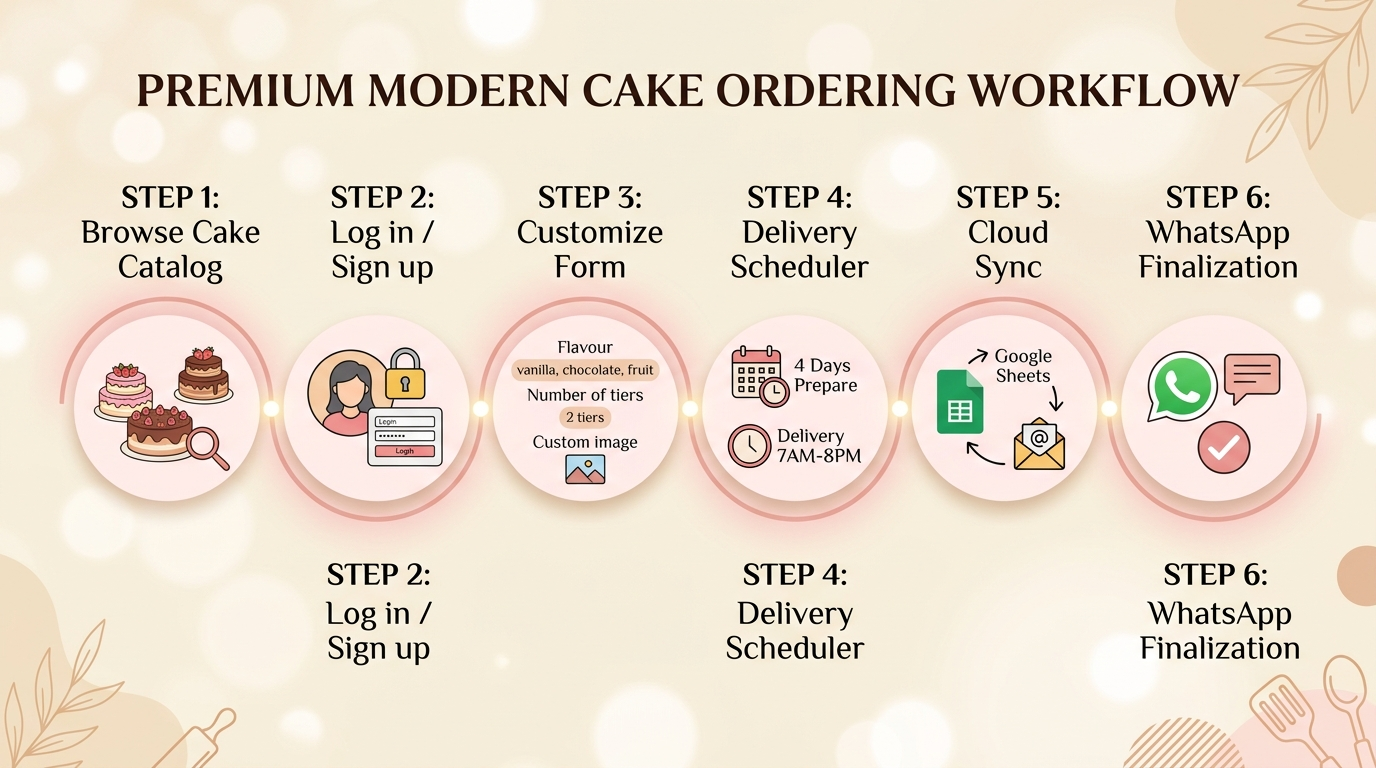
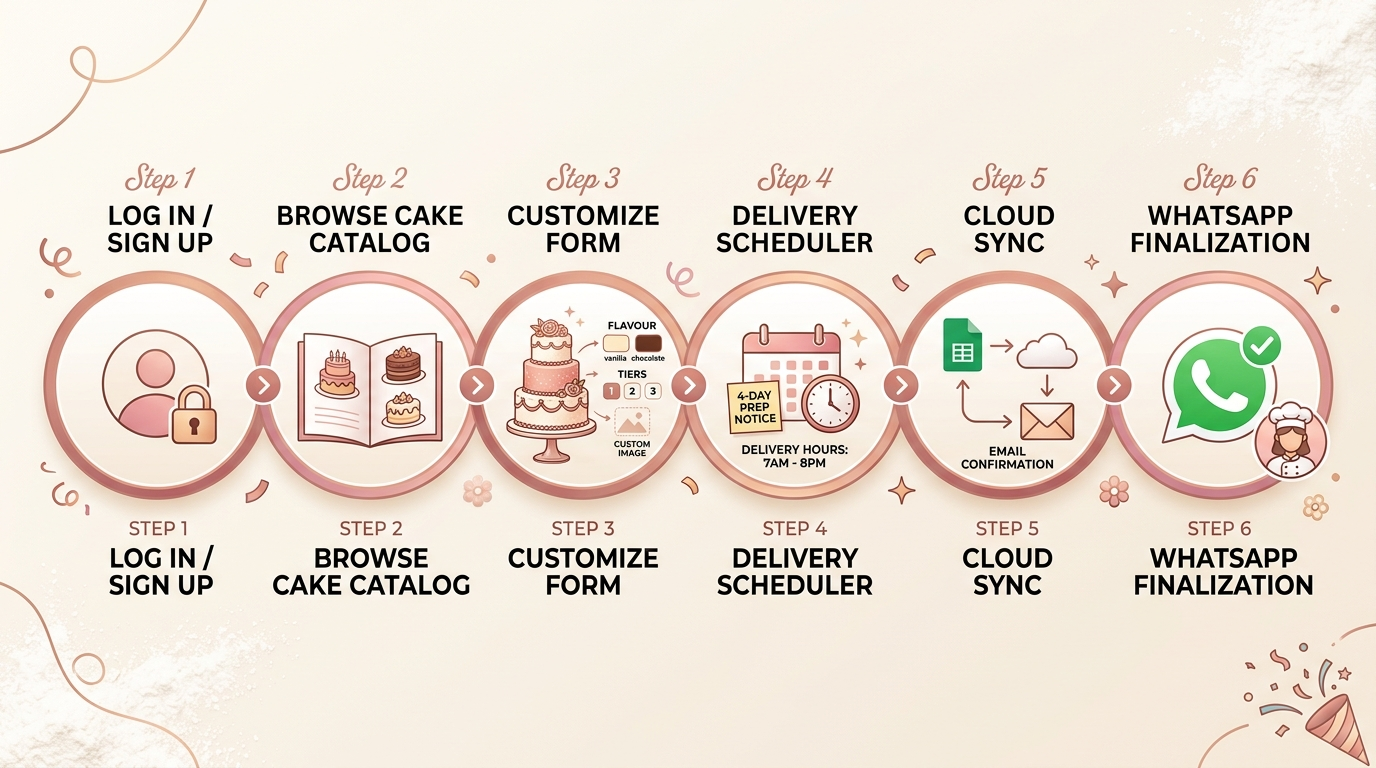
Update workflow infographic and step list to show login-first flow in README

diff --git a/README.md b/README.md
@@ -96,10 +96,10 @@ flowchart TD
 
 Here is a simple, step-by-step walkthrough of how a customer orders a cake on Singh Cake Delight:
 
-1. **Browsing & Ordering**: 
-   - A customer visits the bakery website and clicks **Order Now** or goes to customize their cake.
-2. **Account Login or Sign-up**: 
-   - If they aren't logged in, the website guides them to log in or create a quick account (using their email and password) so their order details and booking history are saved safely.
+1. **Account Login or Sign-up**: 
+   - A customer visits the bakery website and is guided to log in or create a quick account (using their email and password) so their order details and booking history are saved safely.
+2. **Browsing the Catalog**: 
+   - Once logged in, they can browse the premium cake catalog, view the gallery, and select custom configuration menus.
 3. **Configuring the Cake**: 
    - The customer fills out a simple form to choose their cake flavor, select size/tiers, describe modifications, and upload a photo of their desired custom design.
 4. **Selecting a Delivery Date & Time**: 
